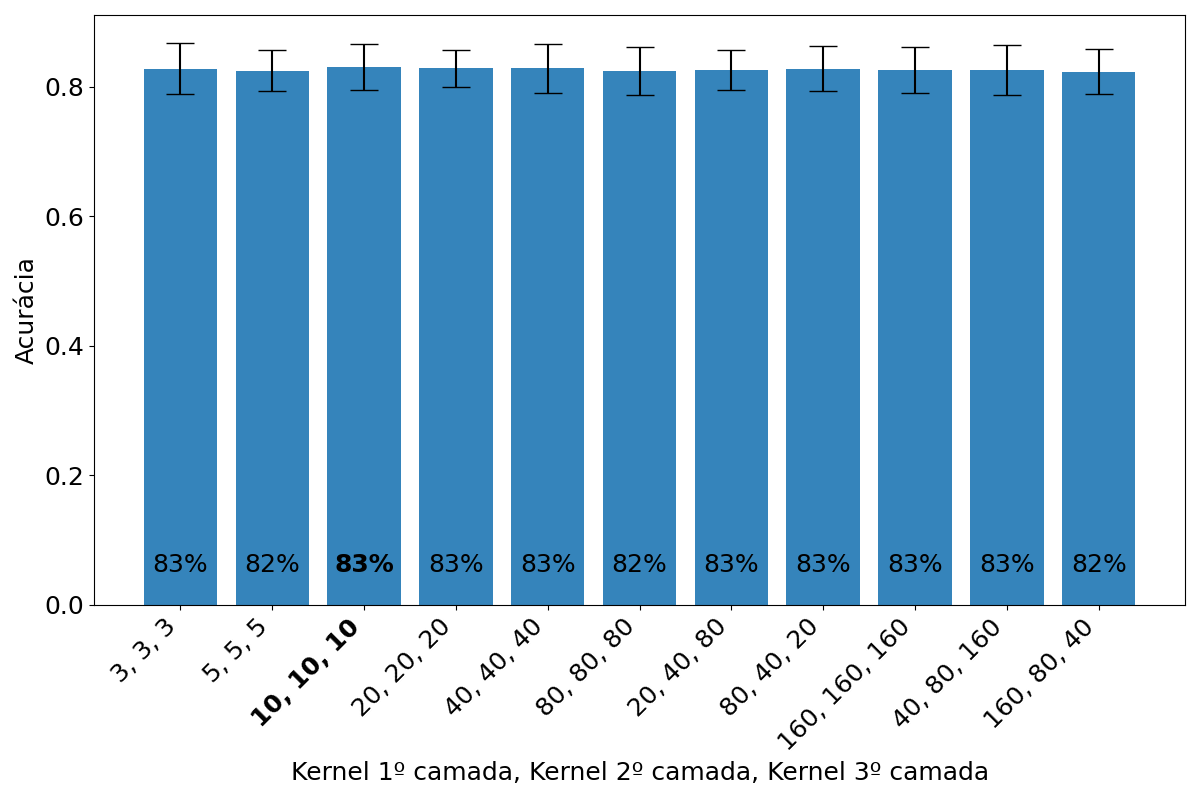
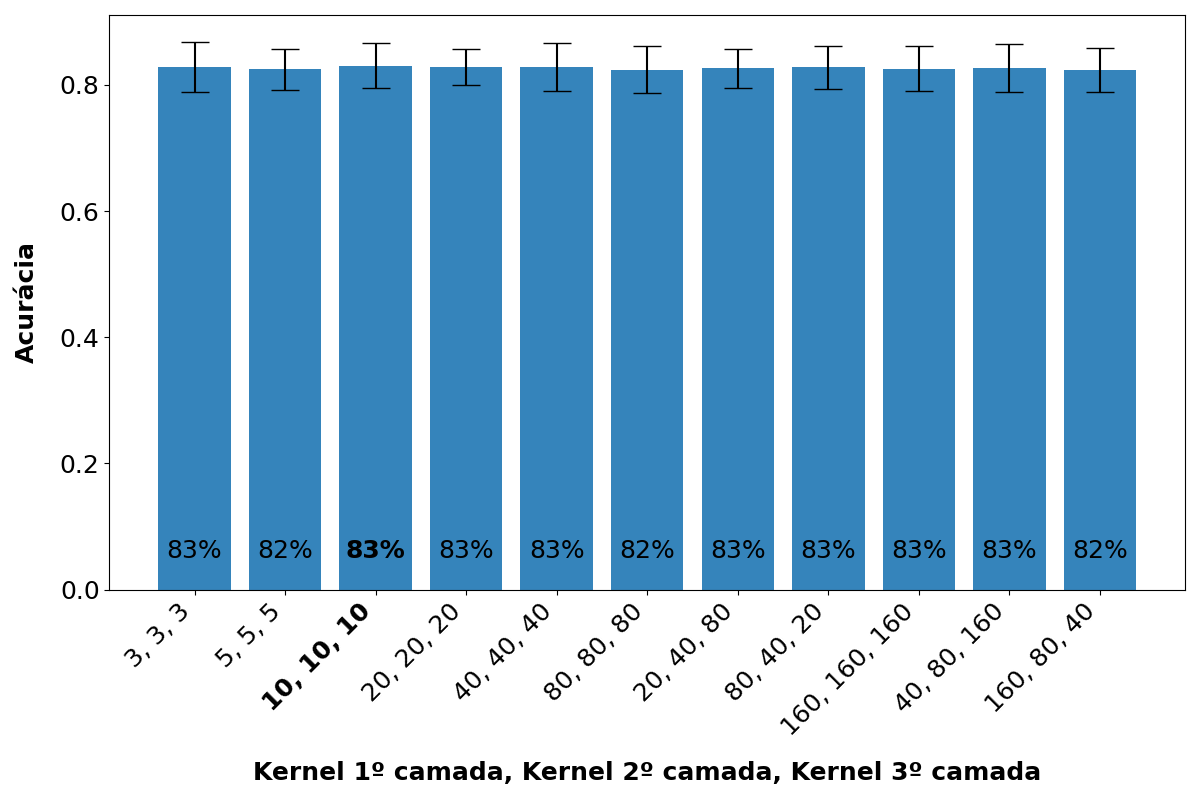
Plots error bar enhancements.

diff --git a/visualization/physionet/generate_error_bar_plot_crnn_window_selection.py b/visualization/physionet/generate_error_bar_plot_crnn_window_selection.py
@@ -3,13 +3,13 @@ import os
 from main import ROOT_DIR
 from visualization.error_bar_plot_helper import plot_error_bar
 
-x_tick_labels = ["10, 5",
-                 "40, 40",
-                 "80, 80",
-                 "160, 160",
-                 "320, 0",
-                 "480, 0",
-                 "640, 0"]
+x_tick_labels = ["(62.5, 31.25) ms",
+                 "(0.25, 0.25) s",
+                 "(0.5, 0.5) s",
+                 "(1, 1) s",
+                 "(2, 0) s",
+                 "(3, 0) s",
+                 "(4, 0) s"]
 
 averages = [0.5662032306194306,
             0.596405291557312,
@@ -28,4 +28,4 @@ standard_deviations = [0.017610818473707008,
 
 figure_filepath = os.path.join(ROOT_DIR, "results", "physionet", "results-crnn-window-selection.png")
 plot_error_bar(x_tick_labels, averages, standard_deviations, figure_filepath,
-               x_label="Tamanho da Janela, Tamanho do deslocamento")
+               x_label="(Janela, Deslocamento) Unidade de Tempo", fig_size=(19, 12))

diff --git a/visualization/error_bar_plot_helper.py b/visualization/error_bar_plot_helper.py
@@ -11,8 +11,9 @@ def plot_error_bar(x_ticks, averages, standard_deviations, figure_filepath,
     ax.set_title(title)
     ax.bar(x, averages, yerr=standard_deviations, align="center", alpha=0.9, capsize=10)
 
-    plt.xlabel(x_label, fontsize=font_size)
-    plt.ylabel(y_label, fontsize=font_size)
+    label_pad = 15
+    plt.xlabel(x_label, labelpad=label_pad, fontsize=font_size, weight="bold")
+    plt.ylabel(y_label, labelpad=label_pad, fontsize=font_size, weight="bold")
     ax.tick_params(axis="y", labelsize=font_size)
 
     if x_ticks_rotation is not None:
